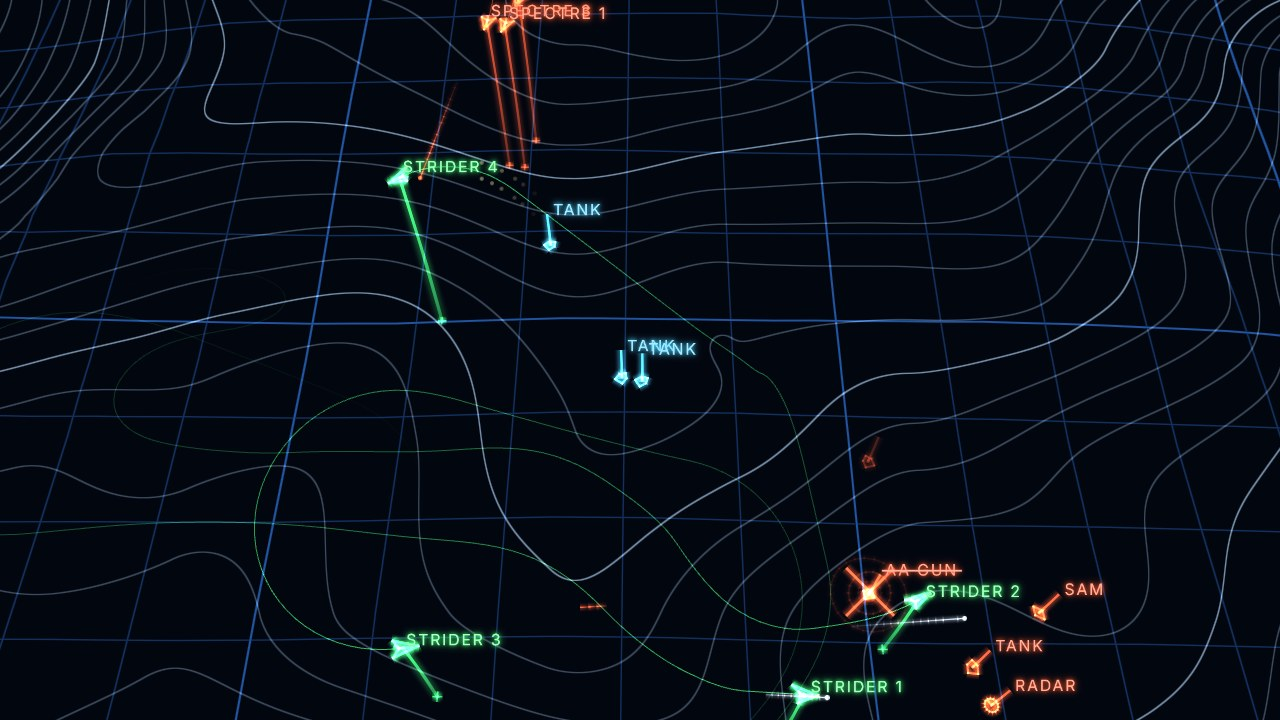
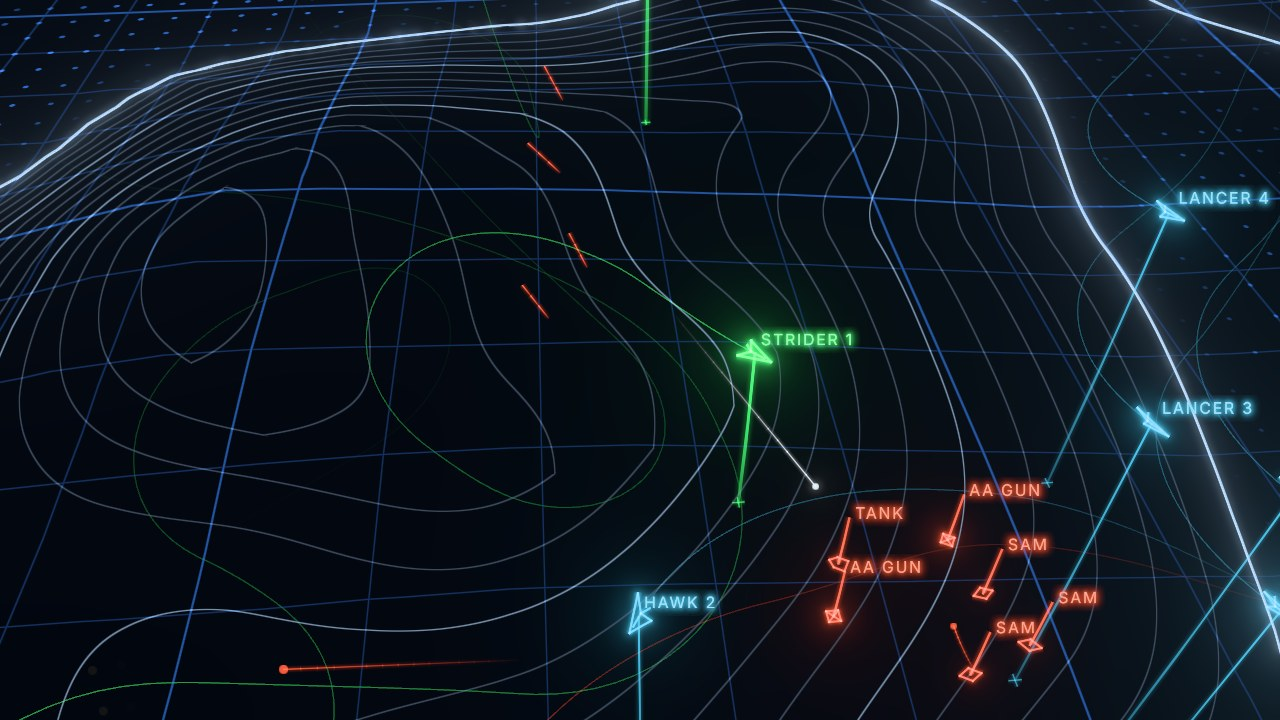
Preview GIF and README screenshots with the r187 look
Re-rendered with bloom and colour management (preview.gif ~600 KB: bloom gradients compress worse, still
under Wallpaper Engine's 1 MB limit).

Claude-Session: https://claude.ai/code/session_01TyqJ8XUbLyKheSuJWm7x2w

diff --git a/CLAUDE.md b/CLAUDE.md
@@ -244,7 +244,7 @@ Sister project and the reference for conventions: `wladbelsky/carrier-wallpaper`
   - `repo.spec.js` checks the cache-buster (all tags equal, matches "Current: `v=N`" here), the load order line
     above, that `js/properties.js` is regenerated and that every property is read in `main.js`.
   - `preview.gif` (animated 256², 4 s, rendered at 512² and downscaled; the Workshop preview in `project.json` — WE
-    takes ≤ 256 px, < 1 MB, aim < 500 KB; encoded with the `gifenc` devDependency, `repo.spec.js` checks the limits;
+    takes ≤ 256 px, < 1 MB, aim < 500 KB — with bloom it is ~600 KB, its gradients compress worse; encoded with the `gifenc` devDependency, `repo.spec.js` checks the limits;
     seed `GIF.seed`) and the README screenshots `screenshots/<scene>.jpg` (1280x720, `SCENES` in `preview.spec.js`:
     combat / sea / boss / peace, each with its seed and the moment to take), deterministic:
     `$env:PREVIEW = 1; powershell -ExecutionPolicy Bypass -File tools/test.ps1 tests/preview.spec.js`
